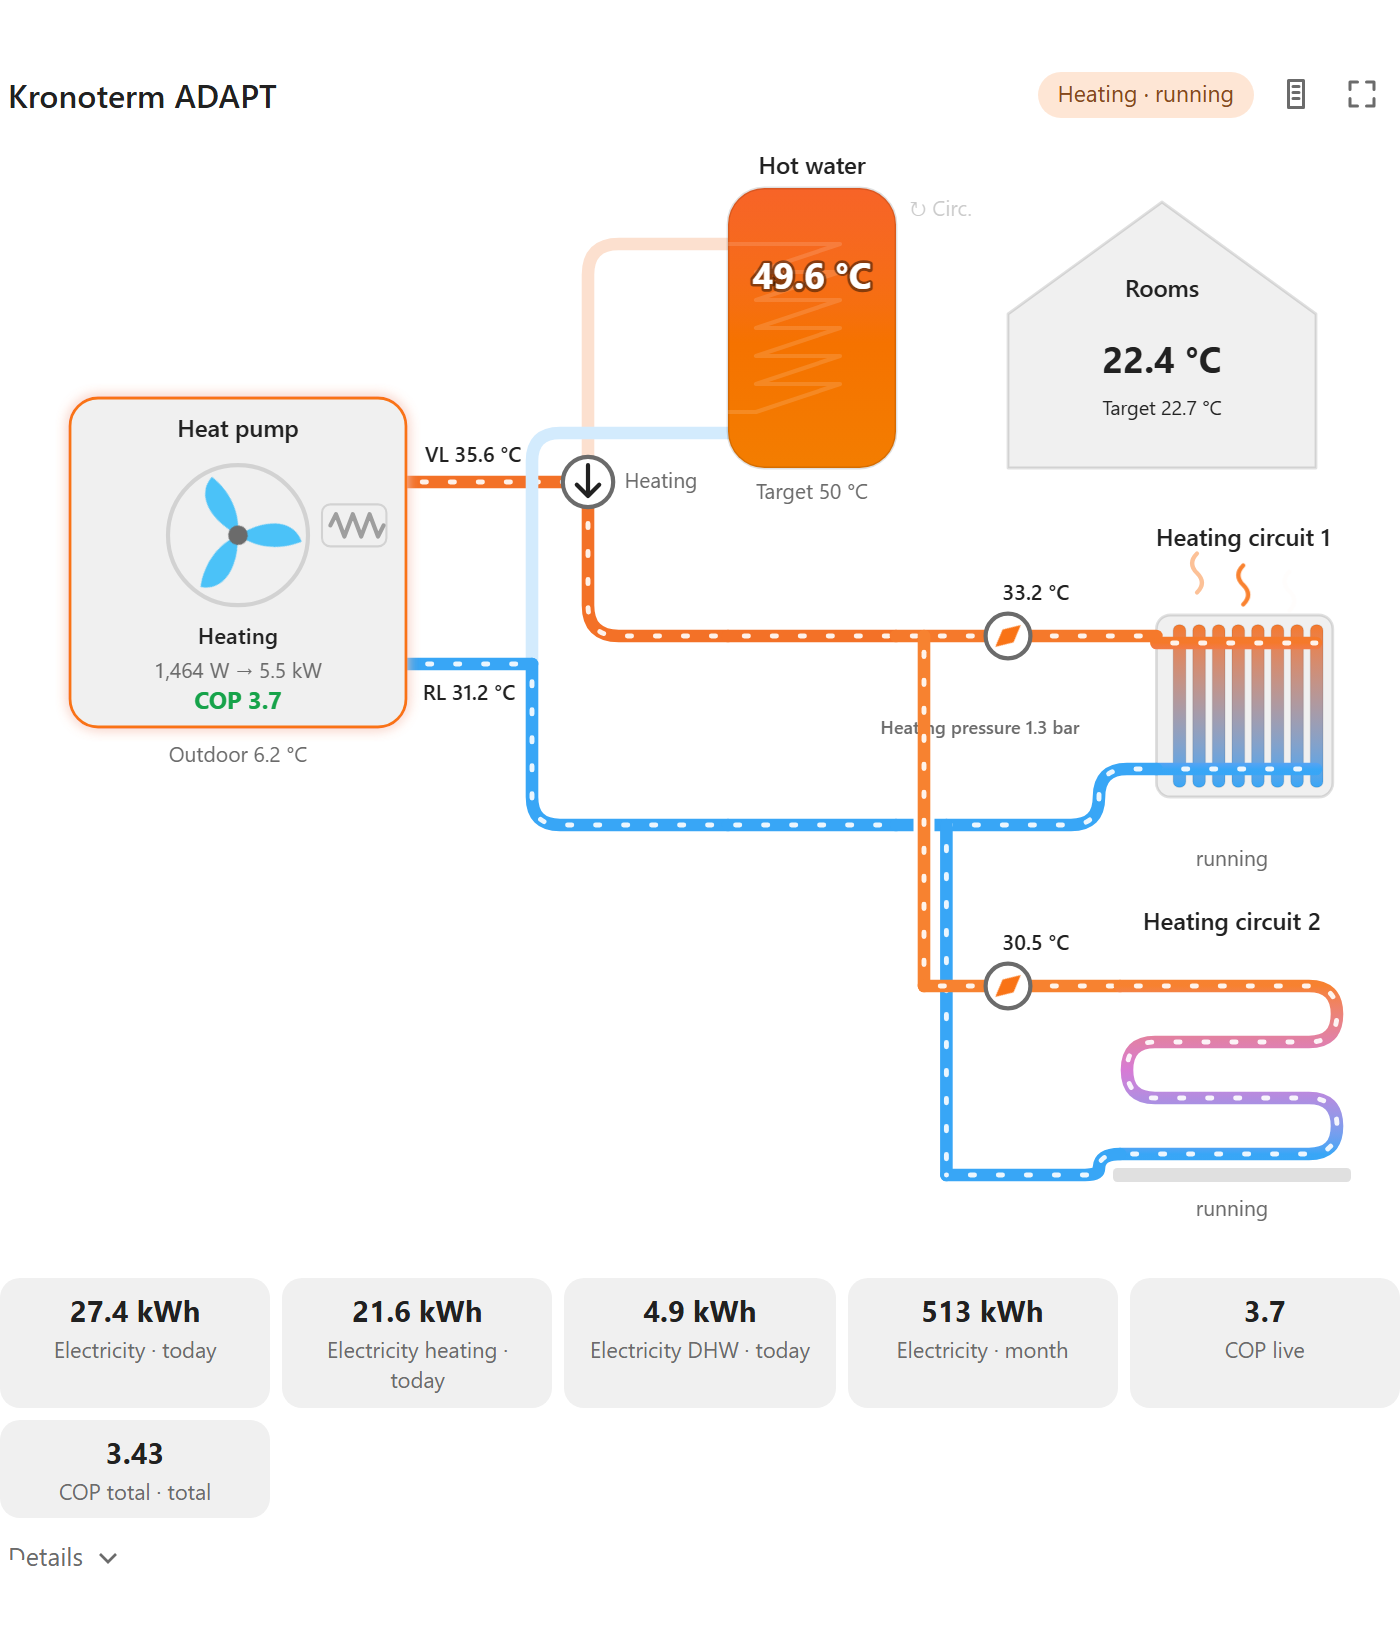
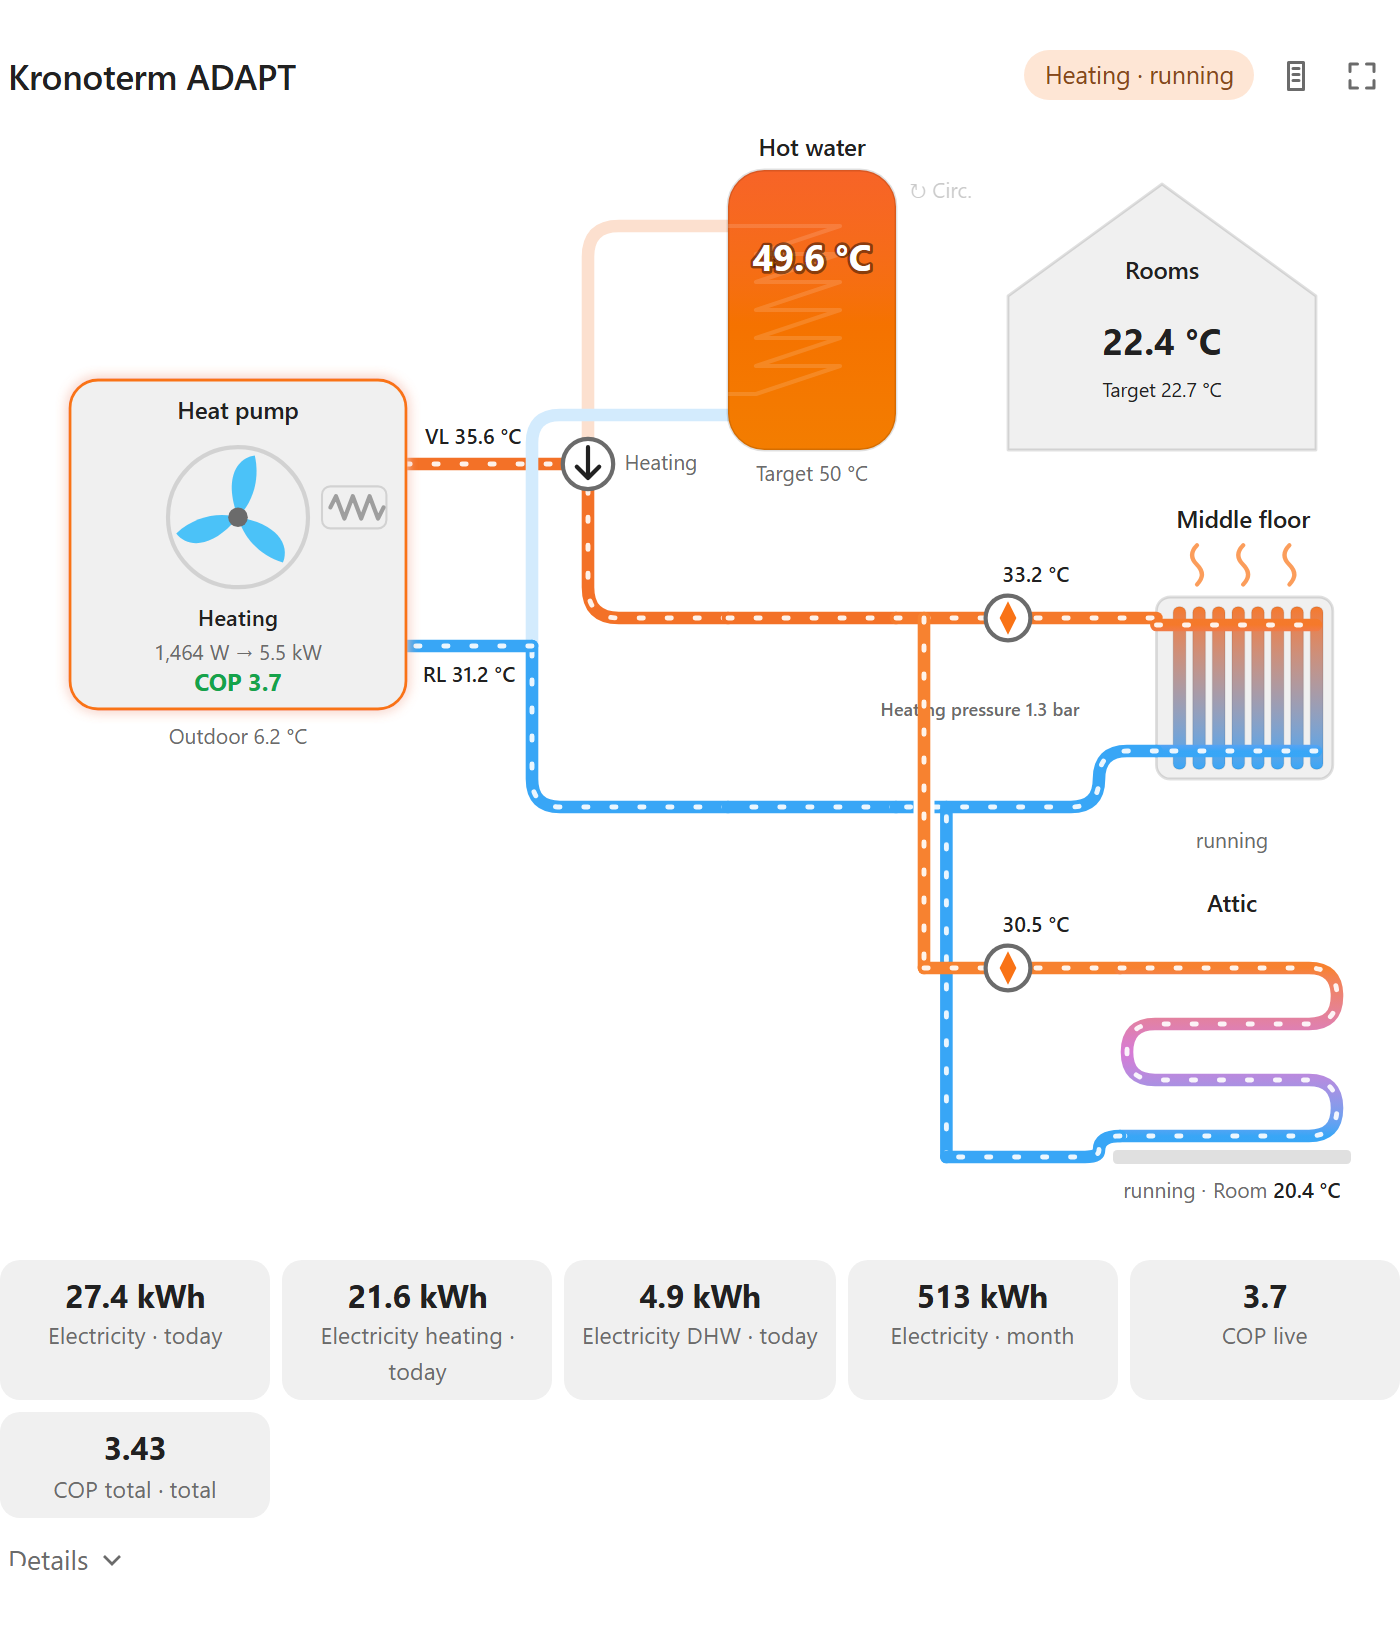
README: room sensor of a loop with card 0.12.0 (hc2_room)
The kronoterm preset is released in Heat Pump Hydraulic Card 0.12.0.
The example for a loop without a Kronoterm thermostat now uses the
card's hc2_room key, which shows the room sensor under that loop,
instead of a tile. New screenshot from the card's demo data showing
it.

diff --git a/README.md b/README.md
@@ -149,7 +149,7 @@ for Home Assistant's recorder to commit the result before reporting completion.
 [Example Dashboard YAML](dashboard.yaml)
 
 ### Heat Pump Hydraulic Card
-[Heat Pump Hydraulic Card](https://github.com/Sturmi77/heatpump-hydraulic-card) (HACS) shows the heat pump as an animated hydraulic schematic: working function, compressor load, defrost, the DHW tank, the heating loops with their pumps, the room thermostat, live COP, energy tiles and a 24-hour timeline. Its `kronoterm` preset finds the entities of this integration by their translation keys, with the Cloud API and with Modbus, so no entity IDs are needed:
+[Heat Pump Hydraulic Card](https://github.com/Sturmi77/heatpump-hydraulic-card) (HACS) shows the heat pump as an animated hydraulic schematic: working function, compressor load, defrost, the DHW tank, the heating loops with their pumps, the room thermostat, live COP, energy tiles and a 24-hour timeline. Its `kronoterm` preset (card version 0.12.0 or newer) finds the entities of this integration by their translation keys, with the Cloud API and with Modbus, so no entity IDs are needed:
 
 ```yaml
 type: custom:heatpump-hydraulic-card
@@ -159,14 +159,13 @@ hc_type: radiator      # loop 1: underfloor (default), radiator or column
 hc2_type: underfloor   # loop 2
 ```
 
-A room sensor of another integration, for example a Shelly H&T for a loop without a Kronoterm thermostat, can be added as a tile:
+With a Kronoterm room thermostat, loop 1 shows its room temperature and target in the house. A loop without one can show a room sensor of another integration, for example a Shelly H&T, in its status line under the heating surface:
 
 ```yaml
-tiles:
-  - energy
-  - cop_live
-  - entity: sensor.attic_temperature
-    name: Attic
+hc_name: Middle floor
+hc2_name: Attic
+entities:
+  hc2_room: sensor.attic_temperature   # room sensor of loop 2
 ```
 
 See the card's README for all options.
